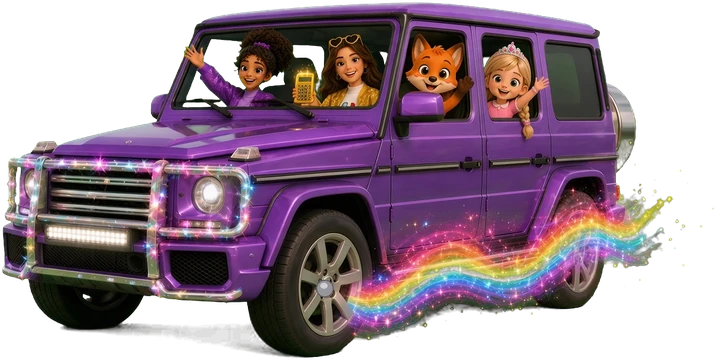
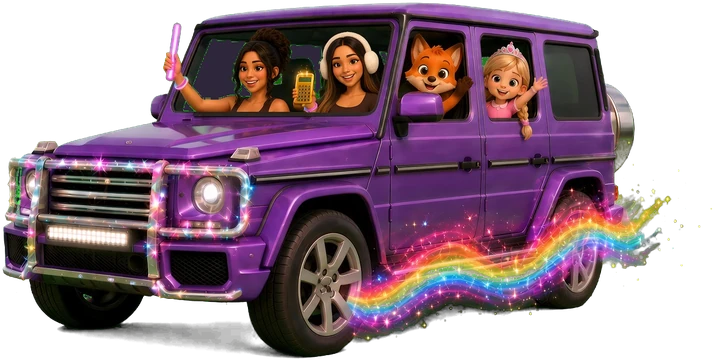
Teri+GiGi likeness redraw, new G-wagon

diff --git a/learn/index.html b/learn/index.html
@@ -5,7 +5,7 @@
 <meta name="apple-mobile-web-app-status-bar-style" content="default">
 <meta name="apple-mobile-web-app-title" content="Juniper Learn">
 <link rel="apple-touch-icon" sizes="180x180" href="icon-v7-180.png"><link rel="icon" type="image/png" sizes="32x32" href="favicon-v7-32.png"><link rel="icon" type="image/png" sizes="192x192" href="icon-v7-192.png"><link rel="manifest" href="manifest.webmanifest"><meta name="theme-color" content="#fff7ec">
-<script>window.JBUILD='20261120101154-9a54ec';</script>
+<script>window.JBUILD='20261120114334-bf8460';</script>
 <title>Juniper's Learning Park</title>
[1 lines of base64/hex data omitted]
 <link rel="preload" as="image" href="../art/bg/home.webp" media="(orientation:landscape)"><link rel="preload" as="image" href="../art/bg/home_portrait.webp" media="(orientation:portrait)">
@@ -1862,7 +1862,7 @@ const SART = (() => { const base = '../art/';
   const ITEMS = ['moonstone', 'compass', 'spoon', 'skate', 'tee', 'lantern', 'coqui', 'sunkey', 'amulet', 'acorn', 'prism', 'torch', 'glacier', 'mirror', 'crown', 'lens', 'seed', 'chip', 'ltag', 'wings', 'taxilight', 'pearlball', 'snowglobe', 'skypass'];
   const DEFPOSE = { juniper: 'wave' };
   const pose = (n, p) => { p = POSES.includes(p) ? p : (DEFPOSE[n] || 'idle'); return SZ[n + '_' + p] ? p : (SZ[n + '_idle'] ? 'idle' : 'wave'); };
-  const SZ = {"teri_wave":[255,560],"teri_point":[319,560],"gigi_wave":[279,560],"gigi_point":[274,560],"bro1_idle":[200,420],"bro2_idle":[186,420],"bro3_idle":[195,420],"troll_idle":[282,350],"twister_idle":[286,350],"jamgoblin_idle":[284,350],"sneak_idle":[291,350],"slush_idle":[365,350],"jetlag_idle":[304,350],"gwagon_idle":[716,360],"juniper_tutu":[299,468],"juniper_blades":[271,468],"juniper_hightops":[282,468],"juniper_icegown":[321,468],"juniper_goldgown":[321,468],"abominable_cheer":[325,368],"abominable_idle":[280,367],"abominable_point":[273,366],"abominable_think":[229,372],"abominable_wave":[288,365],"aspen_cheer":[318,584],"aspen_idle":[246,581],"aspen_point":[268,582],"aspen_think":[233,581],"aspen_wave":[270,580],"barnacle_cheer":[317,341],"barnacle_idle":[259,340],"barnacle_point":[274,349],"barnacle_think":[232,347],"barnacle_wave":[280,349],"coqui_cheer":[340,423],"coqui_idle":[249,292],"coqui_point":[261,418],"coqui_think":[227,413],"coqui_wave":[272,425],"cucocloud_cheer":[270,215],"cucocloud_idle":[248,218],"cucocloud_point":[255,214],"cucocloud_think":[239,217],"cucocloud_wave":[250,215],"drstatic_cheer":[334,526],"drstatic_idle":[238,514],"drstatic_point":[266,512],"drstatic_think":[234,511],"drstatic_wave":[265,508],"ermine_cheer":[272,474],"ermine_idle":[257,399],"ermine_point":[263,441],"ermine_think":[242,456],"ermine_wave":[314,447],"flurry_cheer":[284,444],"flurry_idle":[235,430],"flurry_point":[261,431],"flurry_think":[230,438],"flurry_wave":[264,439],"gargoyle_cheer":[303,357],"gargoyle_idle":[256,352],"gargoyle_point":[270,368],"gargoyle_think":[251,372],"gargoyle_wave":[279,370],"glitch_cheer":[316,440],"glitch_idle":[215,433],"glitch_point":[243,432],"glitch_think":[205,430],"glitch_wave":[257,430],"goblin_cheer":[311,364],"goblin_idle":[270,340],"goblin_point":[282,339],"goblin_think":[258,338],"goblin_wave":[277,334],"gremlin_cheer":[292,436],"gremlin_idle":[289,377],"gremlin_point":[278,375],"gremlin_think":[272,363],"gremlin_wave":[268,368],"hag_cheer":[264,432],"hag_idle":[241,440],"hag_point":[263,440],"hag_think":[234,430],"hag_wave":[254,426],"icequeen_cheer":[283,446],"icequeen_idle":[266,430],"icequeen_point":[264,426],"icequeen_think":[248,428],"icequeen_wave":[266,424],"juniper_cheer":[310,453],"juniper_golf":[306,468],"juniper_idle":[274,468],"juniper_point":[288,453],"juniper_princess":[321,468],"juniper_riding":[270,468],"juniper_riding_gold":[270,468],"juniper_skate":[296,468],"juniper_ski":[310,468],"juniper_think":[254,456],"juniper_wave":[292,451],"lola_cheer":[332,389],"lola_idle":[212,399],"lola_point":[295,391],"lola_think":[222,395],"lola_wave":[278,395],"mamafox_cheer":[306,569],"mamafox_idle":[253,572],"mamafox_point":[291,579],"mamafox_think":[257,578],"mamafox_wave":[302,575],"marcus_cheer":[279,393],"marcus_idle":[254,397],"marcus_point":[278,392],"marcus_think":[218,396],"marcus_wave":[267,392],"marengo_cheer":[253,434],"marengo_idle":[299,416],"marengo_point":[265,413],"marengo_think":[252,417],"marengo_wave":[257,412],"nicolo_cheer":[336,544],"nicolo_idle":[234,541],"nicolo_point":[274,544],"nicolo_think":[207,542],"nicolo_wave":[295,538],"oscar_cheer":[314,409],"oscar_idle":[231,360],"oscar_point":[282,363],"oscar_think":[230,374],"oscar_wave":[273,366],"pearl_cheer":[326,449],"pearl_idle":[248,448],"pearl_point":[309,450],"pearl_think":[249,452],"pearl_wave":[304,449],"pickle_cheer":[304,396],"pickle_idle":[258,445],"pickle_point":[288,444],"pickle_think":[232,443],"pickle_wave":[264,447],"quinn_cheer":[327,452],"quinn_idle":[229,454],"quinn_point":[266,456],"quinn_think":[246,454],"quinn_wave":[285,453],"ratking_cheer":[303,458],"ratking_idle":[256,470],"ratking_point":[293,467],"ratking_think":[246,469],"ratking_wave":[260,462],"rocco_cheer":[289,451],"rocco_idle":[259,451],"rocco_point":[299,448],"rocco_think":[245,452],"rocco_wave":[291,450],"scramble_cheer":[293,438],"scramble_idle":[294,434],"scramble_point":[300,430],"scramble_think":[241,436],"scramble_wave":[292,435],"smoke_cheer":[275,330],"smoke_idle":[246,320],"smoke_point":[260,327],"smoke_think":[242,326],"smoke_wave":[264,330],"teddy_cheer":[266,455],"teddy_idle":[273,422],"teddy_point":[277,440],"teddy_think":[260,456],"teddy_wave":[268,441],"toulouse_cheer":[288,458],"toulouse_idle":[253,454],"toulouse_point":[271,460],"toulouse_think":[246,459],"toulouse_wave":[278,454],"weasel_cheer":[328,464],"weasel_idle":[276,454],"weasel_point":[282,476],"weasel_think":[250,498],"weasel_wave":[265,498],"weevil_cheer":[297,372],"weevil_idle":[256,399],"weevil_point":[252,399],"weevil_think":[237,394],"weevil_wave":[297,397],"winnie_cheer":[287,418],"winnie_idle":[256,410],"winnie_point":[276,410],"winnie_think":[247,416],"winnie_wave":[279,412],"witch_cheer":[289,538],"witch_idle":[258,492],"witch_point":[265,481],"witch_think":[245,478],"witch_wave":[277,480],"wolf_cheer":[303,463],"wolf_idle":[271,473],"wolf_point":[293,481],"wolf_think":[250,484],"wolf_wave":[296,480]};
+  const SZ = {"teri_wave":[247,560],"teri_point":[282,560],"gigi_wave":[260,560],"gigi_point":[292,560],"bro1_idle":[200,420],"bro2_idle":[186,420],"bro3_idle":[195,420],"troll_idle":[282,350],"twister_idle":[286,350],"jamgoblin_idle":[284,350],"sneak_idle":[291,350],"slush_idle":[365,350],"jetlag_idle":[304,350],"gwagon_idle":[714,360],"juniper_tutu":[299,468],"juniper_blades":[271,468],"juniper_hightops":[282,468],"juniper_icegown":[321,468],"juniper_goldgown":[321,468],"abominable_cheer":[325,368],"abominable_idle":[280,367],"abominable_point":[273,366],"abominable_think":[229,372],"abominable_wave":[288,365],"aspen_cheer":[318,584],"aspen_idle":[246,581],"aspen_point":[268,582],"aspen_think":[233,581],"aspen_wave":[270,580],"barnacle_cheer":[317,341],"barnacle_idle":[259,340],"barnacle_point":[274,349],"barnacle_think":[232,347],"barnacle_wave":[280,349],"coqui_cheer":[340,423],"coqui_idle":[249,292],"coqui_point":[261,418],"coqui_think":[227,413],"coqui_wave":[272,425],"cucocloud_cheer":[270,215],"cucocloud_idle":[248,218],"cucocloud_point":[255,214],"cucocloud_think":[239,217],"cucocloud_wave":[250,215],"drstatic_cheer":[334,526],"drstatic_idle":[238,514],"drstatic_point":[266,512],"drstatic_think":[234,511],"drstatic_wave":[265,508],"ermine_cheer":[272,474],"ermine_idle":[257,399],"ermine_point":[263,441],"ermine_think":[242,456],"ermine_wave":[314,447],"flurry_cheer":[284,444],"flurry_idle":[235,430],"flurry_point":[261,431],"flurry_think":[230,438],"flurry_wave":[264,439],"gargoyle_cheer":[303,357],"gargoyle_idle":[256,352],"gargoyle_point":[270,368],"gargoyle_think":[251,372],"gargoyle_wave":[279,370],"glitch_cheer":[316,440],"glitch_idle":[215,433],"glitch_point":[243,432],"glitch_think":[205,430],"glitch_wave":[257,430],"goblin_cheer":[311,364],"goblin_idle":[270,340],"goblin_point":[282,339],"goblin_think":[258,338],"goblin_wave":[277,334],"gremlin_cheer":[292,436],"gremlin_idle":[289,377],"gremlin_point":[278,375],"gremlin_think":[272,363],"gremlin_wave":[268,368],"hag_cheer":[264,432],"hag_idle":[241,440],"hag_point":[263,440],"hag_think":[234,430],"hag_wave":[254,426],"icequeen_cheer":[283,446],"icequeen_idle":[266,430],"icequeen_point":[264,426],"icequeen_think":[248,428],"icequeen_wave":[266,424],"juniper_cheer":[310,453],"juniper_golf":[306,468],"juniper_idle":[274,468],"juniper_point":[288,453],"juniper_princess":[321,468],"juniper_riding":[270,468],"juniper_riding_gold":[270,468],"juniper_skate":[296,468],"juniper_ski":[310,468],"juniper_think":[254,456],"juniper_wave":[292,451],"lola_cheer":[332,389],"lola_idle":[212,399],"lola_point":[295,391],"lola_think":[222,395],"lola_wave":[278,395],"mamafox_cheer":[306,569],"mamafox_idle":[253,572],"mamafox_point":[291,579],"mamafox_think":[257,578],"mamafox_wave":[302,575],"marcus_cheer":[279,393],"marcus_idle":[254,397],"marcus_point":[278,392],"marcus_think":[218,396],"marcus_wave":[267,392],"marengo_cheer":[253,434],"marengo_idle":[299,416],"marengo_point":[265,413],"marengo_think":[252,417],"marengo_wave":[257,412],"nicolo_cheer":[336,544],"nicolo_idle":[234,541],"nicolo_point":[274,544],"nicolo_think":[207,542],"nicolo_wave":[295,538],"oscar_cheer":[314,409],"oscar_idle":[231,360],"oscar_point":[282,363],"oscar_think":[230,374],"oscar_wave":[273,366],"pearl_cheer":[326,449],"pearl_idle":[248,448],"pearl_point":[309,450],"pearl_think":[249,452],"pearl_wave":[304,449],"pickle_cheer":[304,396],"pickle_idle":[258,445],"pickle_point":[288,444],"pickle_think":[232,443],"pickle_wave":[264,447],"quinn_cheer":[327,452],"quinn_idle":[229,454],"quinn_point":[266,456],"quinn_think":[246,454],"quinn_wave":[285,453],"ratking_cheer":[303,458],"ratking_idle":[256,470],"ratking_point":[293,467],"ratking_think":[246,469],"ratking_wave":[260,462],"rocco_cheer":[289,451],"rocco_idle":[259,451],"rocco_point":[299,448],"rocco_think":[245,452],"rocco_wave":[291,450],"scramble_cheer":[293,438],"scramble_idle":[294,434],"scramble_point":[300,430],"scramble_think":[241,436],"scramble_wave":[292,435],"smoke_cheer":[275,330],"smoke_idle":[246,320],"smoke_point":[260,327],"smoke_think":[242,326],"smoke_wave":[264,330],"teddy_cheer":[266,455],"teddy_idle":[273,422],"teddy_point":[277,440],"teddy_think":[260,456],"teddy_wave":[268,441],"toulouse_cheer":[288,458],"toulouse_idle":[253,454],"toulouse_point":[271,460],"toulouse_think":[246,459],"toulouse_wave":[278,454],"weasel_cheer":[328,464],"weasel_idle":[276,454],"weasel_point":[282,476],"weasel_think":[250,498],"weasel_wave":[265,498],"weevil_cheer":[297,372],"weevil_idle":[256,399],"weevil_point":[252,399],"weevil_think":[237,394],"weevil_wave":[297,397],"winnie_cheer":[287,418],"winnie_idle":[256,410],"winnie_point":[276,410],"winnie_think":[247,416],"winnie_wave":[279,412],"witch_cheer":[289,538],"witch_idle":[258,492],"witch_point":[265,481],"witch_think":[245,478],"witch_wave":[277,480],"wolf_cheer":[303,463],"wolf_idle":[271,473],"wolf_point":[293,481],"wolf_think":[250,484],"wolf_wave":[296,480]};
   const chr = (n, vb, o = {}) => { const p = pose(n, o.pose), z = SZ[n + '_' + p] || [300, 440]; return `<svg class="chr art chr-${o.cname || n} ${o.cls || ''}" viewBox="0 0 ${z[0]} ${z[1]}" xmlns="http://www.w3.org/2000/svg"><g class="art-bob"><image href="${base}chars/${n}_${p}.webp" width="${z[0]}" height="${z[1]}"/></g></svg>`; };
   return { base, ITEMS, SZ, hasChr: n => !!(SZ[n + '_idle'] || SZ[n + '_wave']), hasItem: id => ITEMS.includes(id), chr, pose, ui: n => `${base}ui/${n}.webp`, bg: (w, sm = true) => `${base}bg/${w}${sm ? '_sm' : ''}.webp` }; })();
 const CHARS = (() => {

diff --git a/learn/sw.js b/learn/sw.js
@@ -1,5 +1,5 @@
 // Juniper's Learning Park service worker: always fetch the newest app, keep voice clips cached.
-const V = '20261120101154-9a54ec'; const APPC = 'jl-app-' + V, VOC = 'jl-vo';
+const V = '20261120114334-bf8460'; const APPC = 'jl-app-' + V, VOC = 'jl-vo';
 self.addEventListener('install', e => { self.skipWaiting(); });
 self.addEventListener('activate', e => { e.waitUntil(caches.keys().then(ks => Promise.all(ks.filter(k => k.startsWith('jl-app-') && k !== APPC).map(k => caches.delete(k)))).then(() => self.clients.claim())); });
 self.addEventListener('fetch', e => { const req = e.request; if (req.method !== 'GET') return; const u = new URL(req.url); if (u.origin !== location.origin) return;
